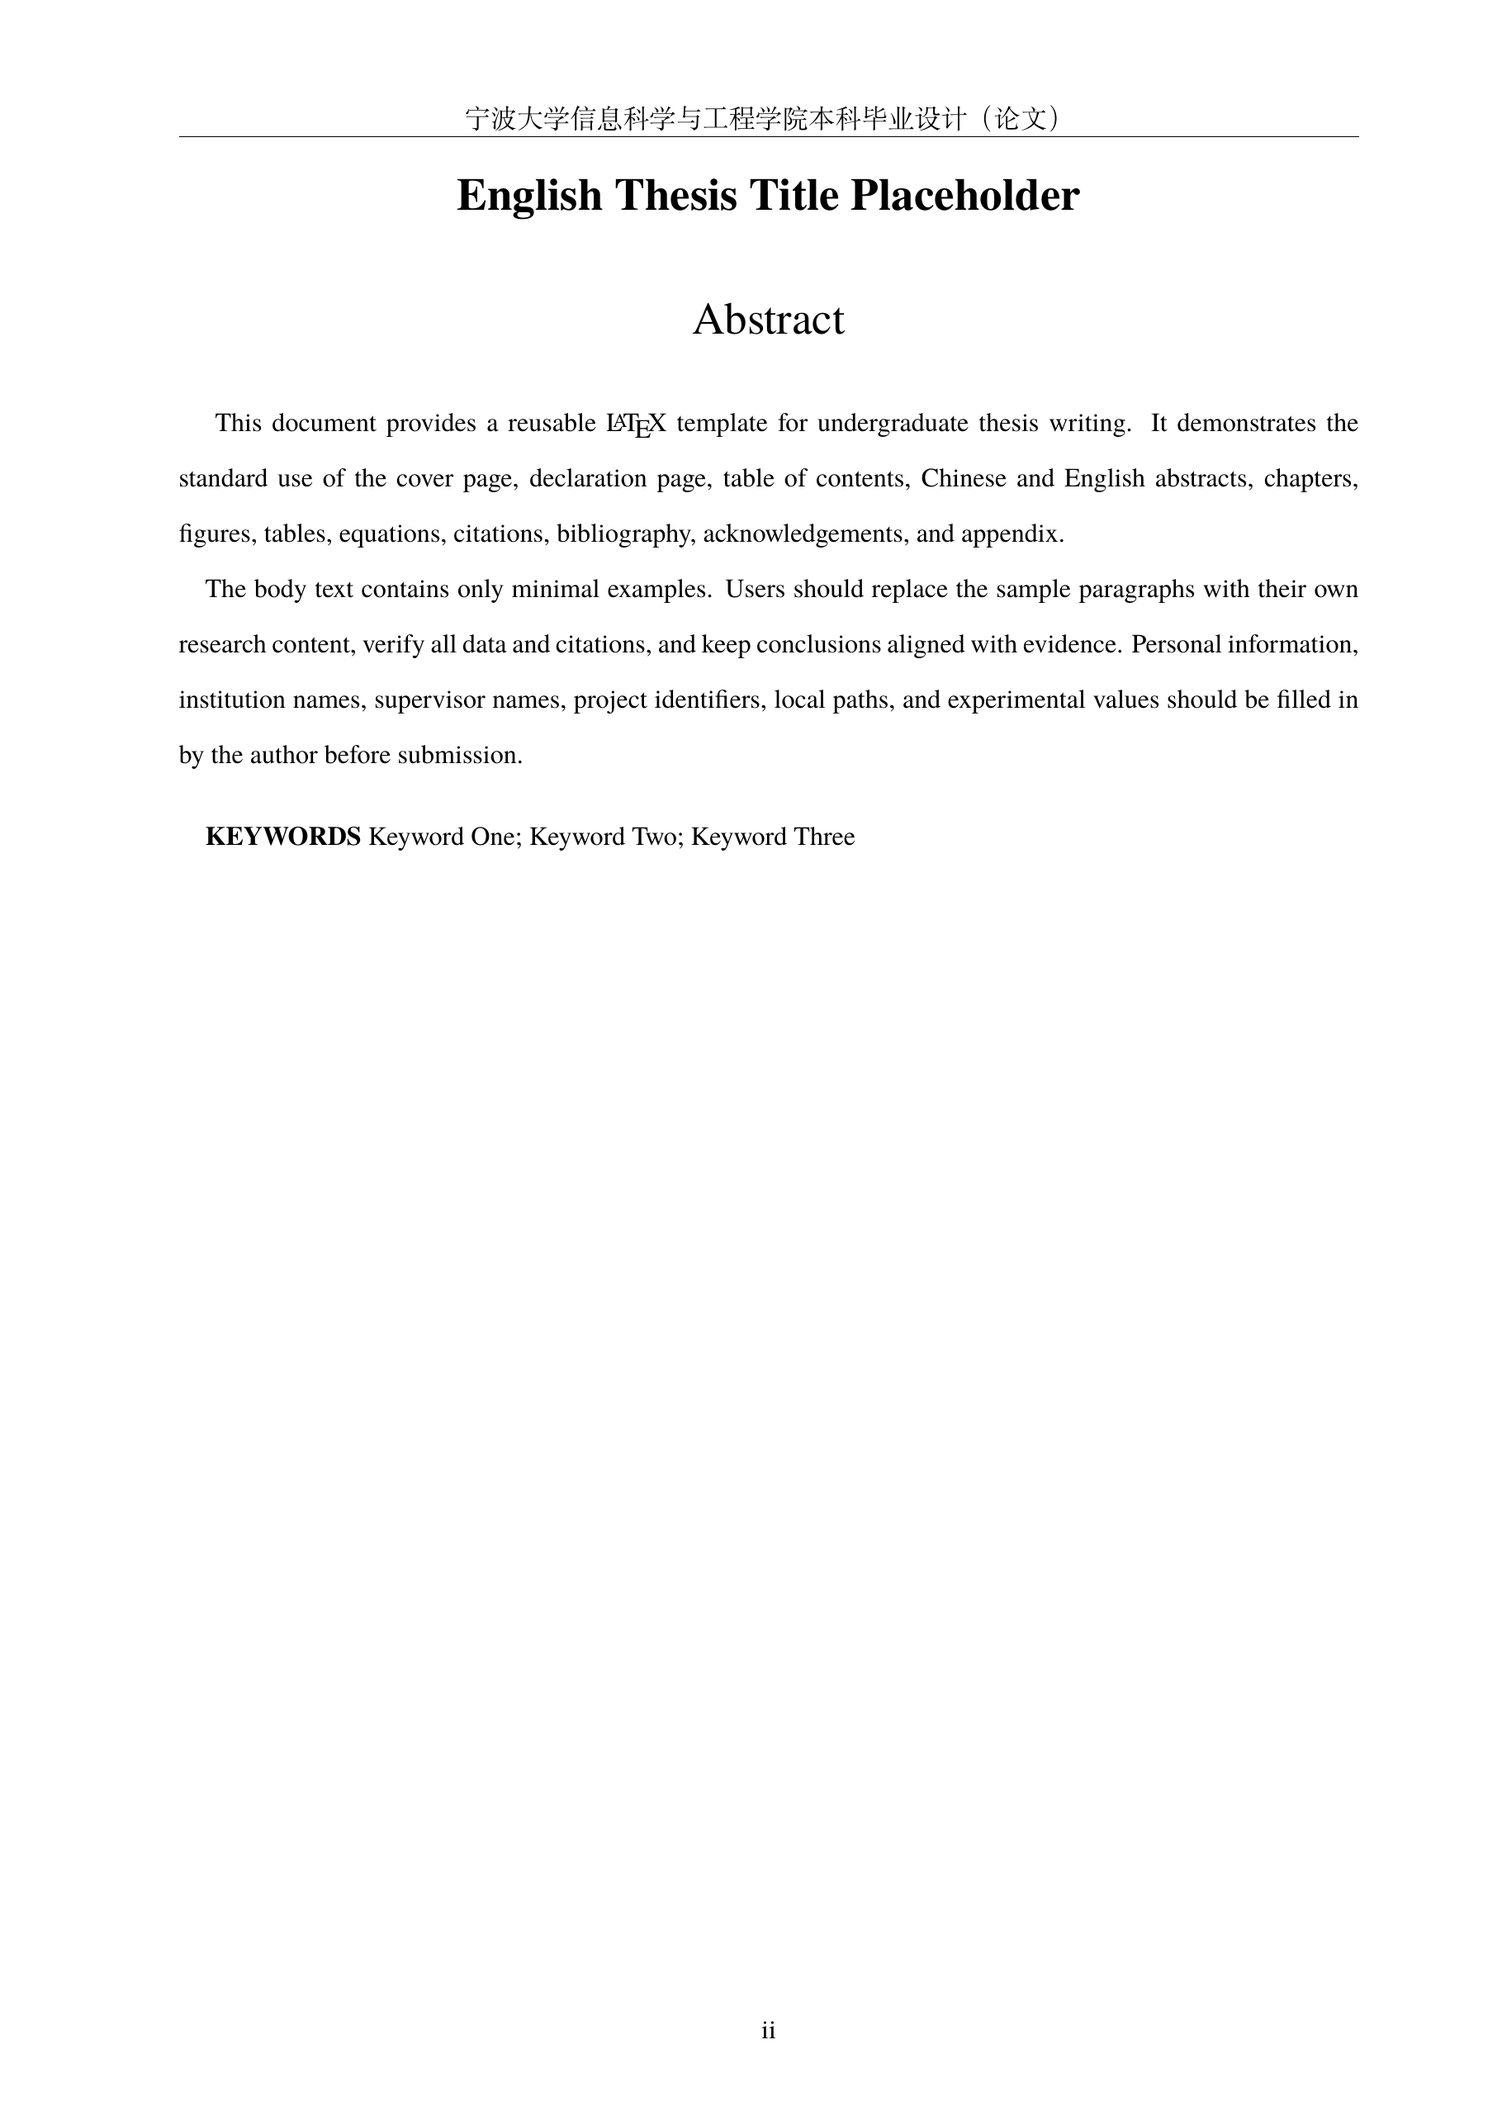
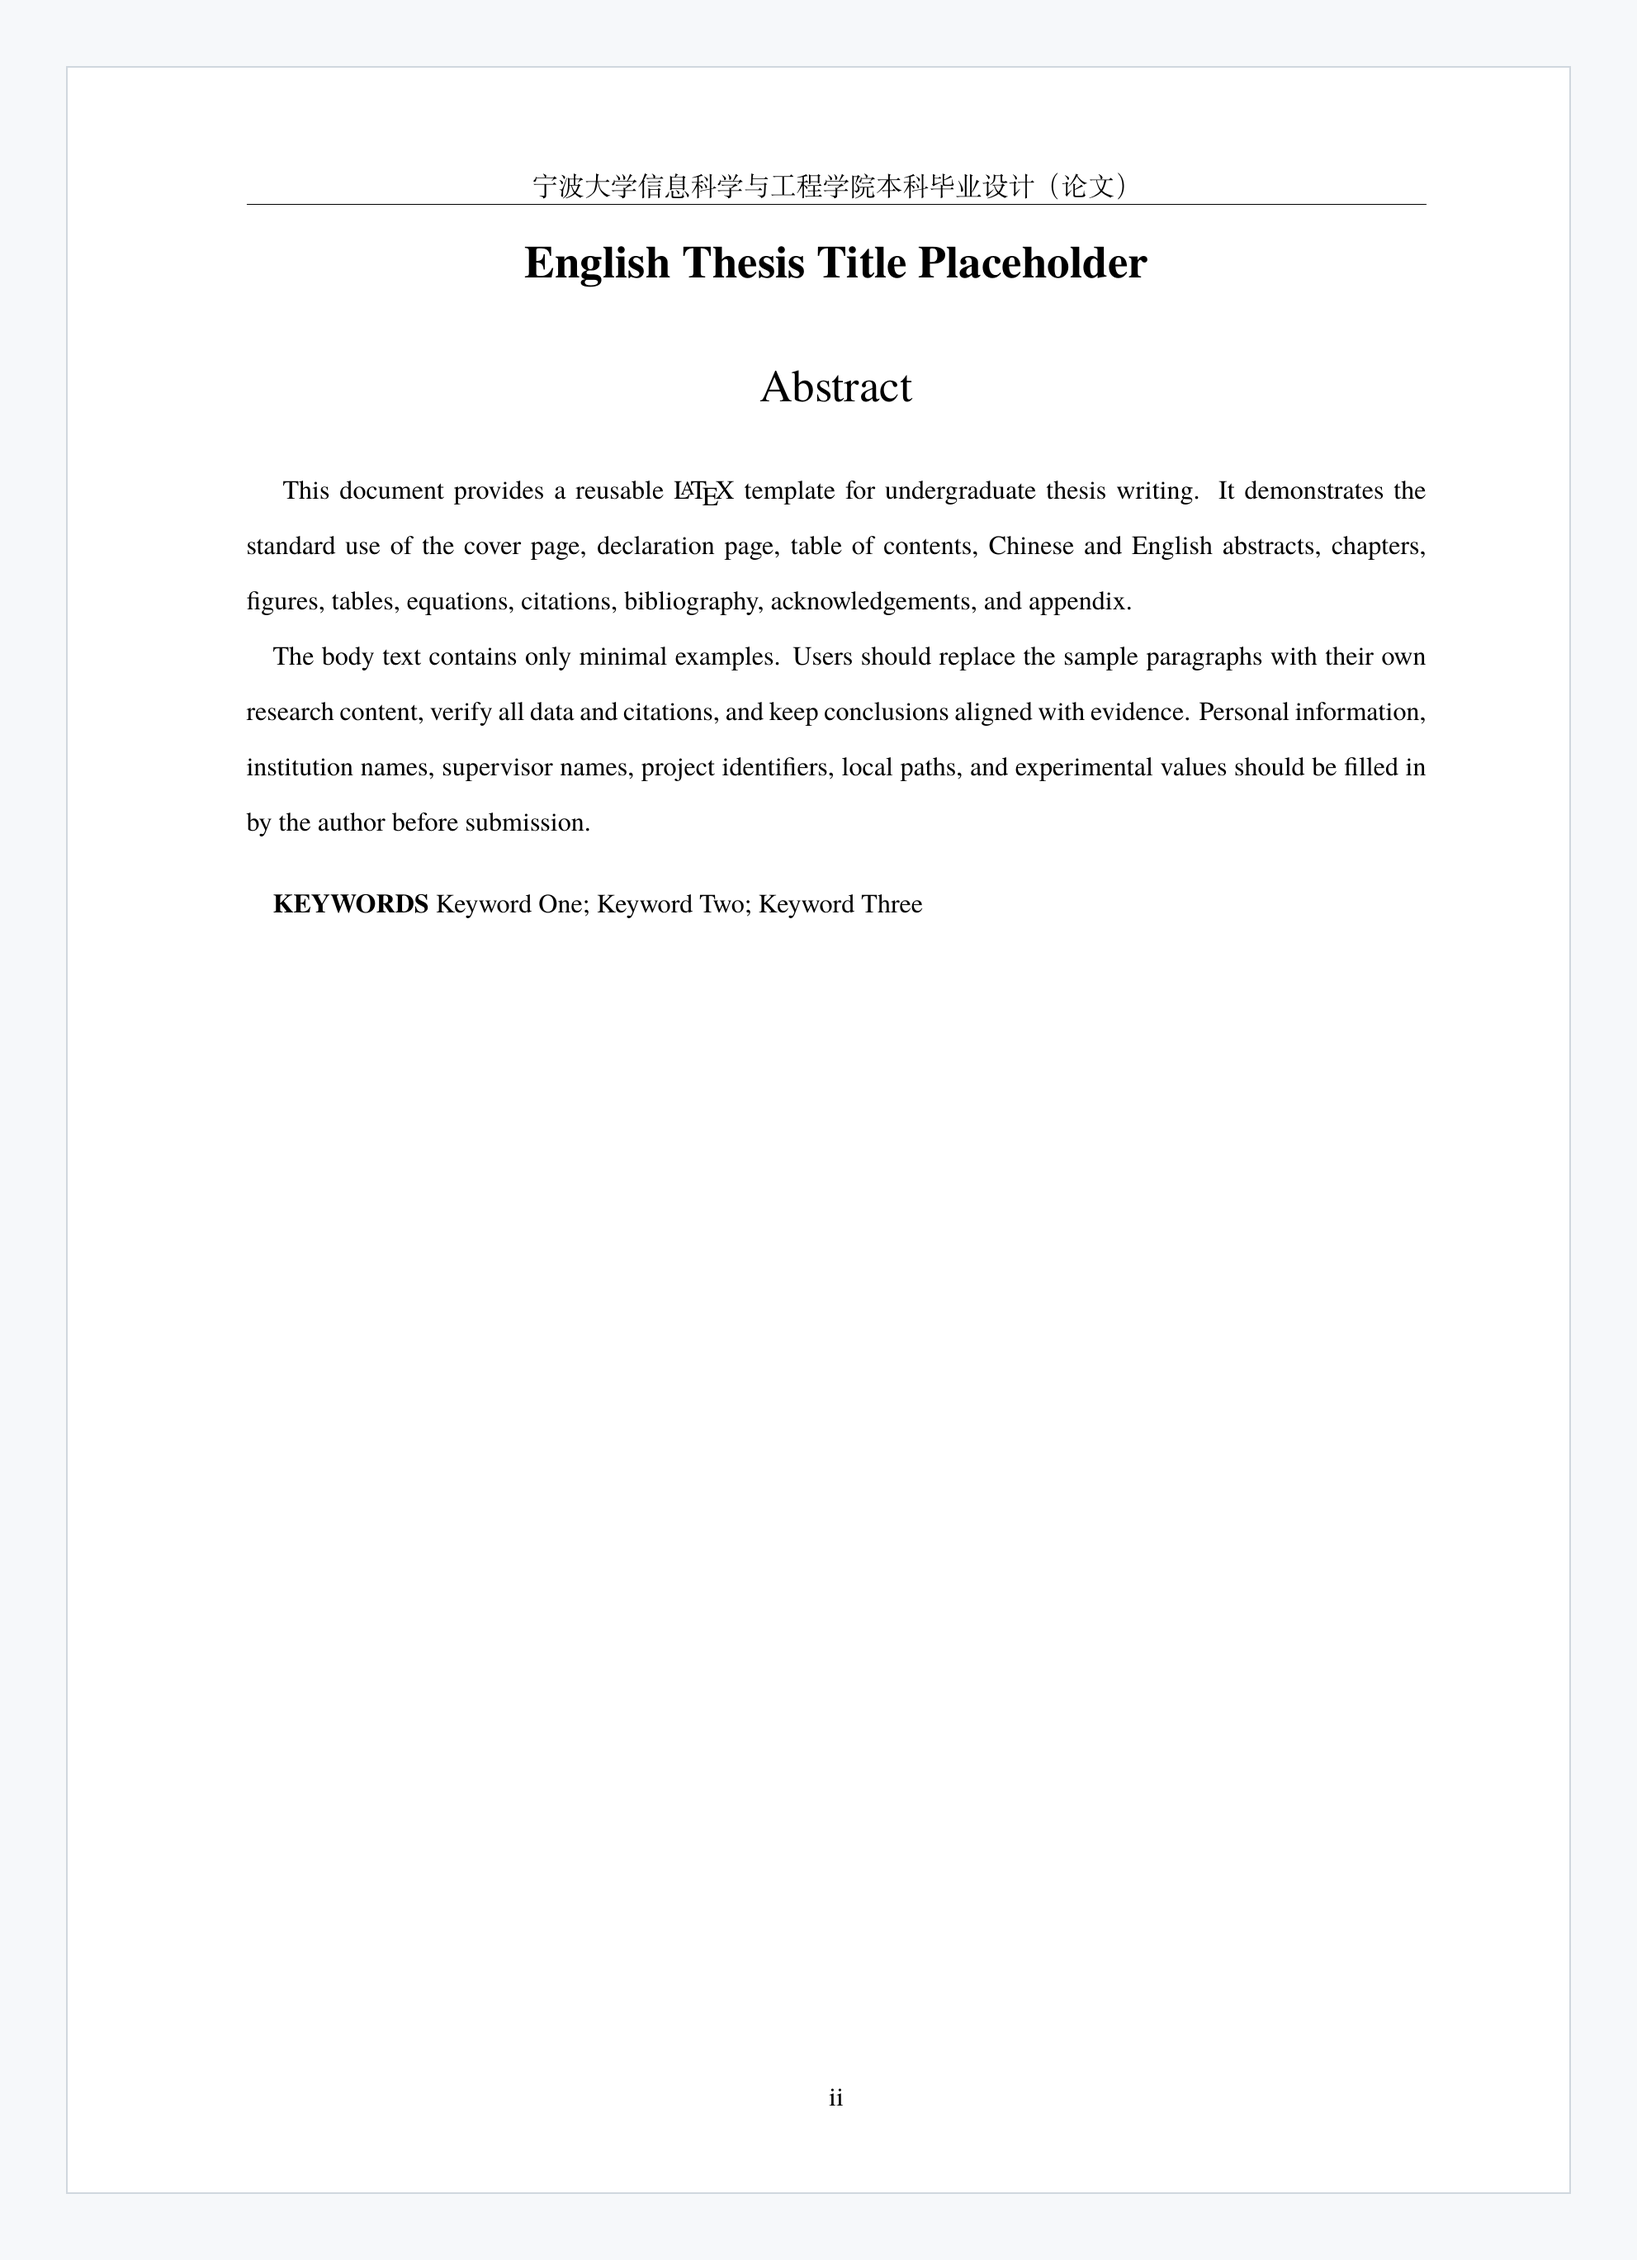
Improve README preview contrast

Changed region(s): [[0.1231, 0.0311, 0.8928, 0.4042]]

diff --git a/README.md b/README.md
@@ -6,7 +6,7 @@
 
 ## 渲染预览
 
-以下图片由当前模板 PDF 以 220 DPI 渲染生成，用于快速查看封面、诚信承诺、目录和摘要页效果。正式使用时，请以本地或 Overleaf 编译得到的 PDF 为准。
+以下图片由当前模板 PDF 以 220 DPI 渲染生成，用于快速查看封面、诚信承诺、目录和摘要页效果。预览图额外添加了浅灰展示底和细边框，便于在 GitHub 页面中辨认纸张边界；正式使用时，请以本地或 Overleaf 编译得到的 PDF 为准。
 
 <p align="center">
 	<img src="docs/preview/cover.png" alt="宁波大学本科毕业论文模板封面渲染预览" width="520">
